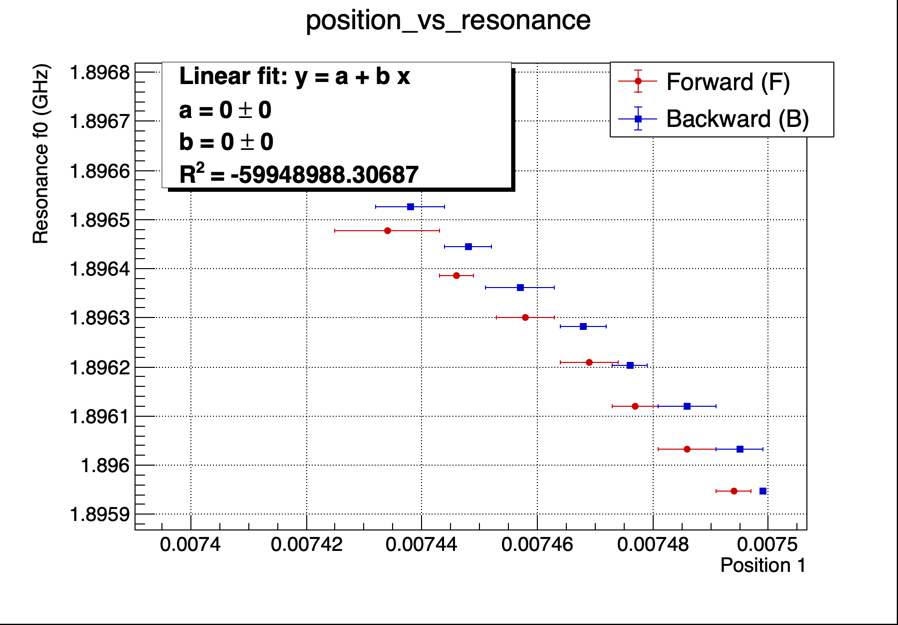
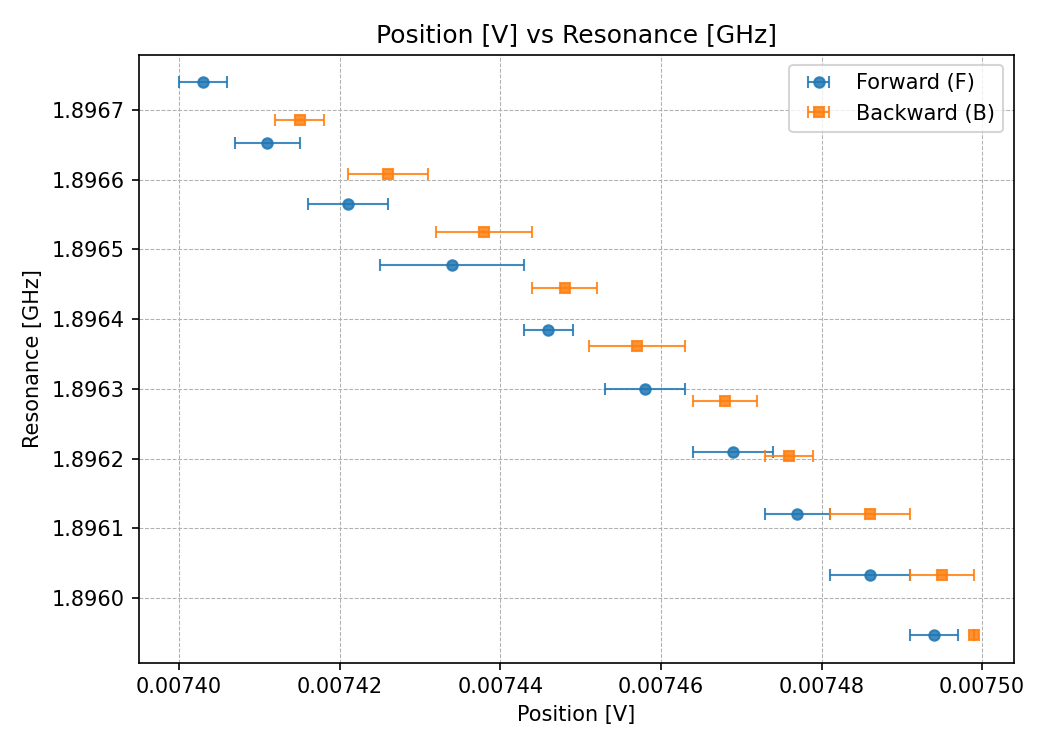
refactor: add error bars and forward/backward separation to comparison plots

diff --git a/linux_vna/plot_comparisons.py b/linux_vna/plot_comparisons.py
@@ -1,24 +1,16 @@
 #!/usr/bin/env python3
-"""Plot comparisons of rows in Run4.txt.
-
-This script reads the Run4.txt CSV file located at
-`data/20260722/Run4.txt` and creates three scatter plots comparing:
-1. Step_Count vs Position
-2. Step_Count vs Resonance_f0_GHz
-3. Position vs Resonance_f0_GHz
-
-Each plot shows Position (x‑axis) vs Resonance_f0_GHz (y‑axis) for the two rows.
-The figures are saved as PNG files in the `figures/` directory.
-"""
+"""Plot Run#.txt data with Forward/Backward separation and error bars."""
 
 import csv
 import os
 import sys
-import matplotlib.pyplot as plt
 
-# Paths
+import matplotlib.pyplot as plt
+import numpy as np
+
+
 BASE_DIR = os.path.abspath(os.path.dirname(__file__))
-# 引数があればそのファイル、なければデフォルトのRun4.txt
+
 if len(sys.argv) > 1:
     DATA_PATH = os.path.abspath(sys.argv[1])
 else:
@@ -27,84 +19,139 @@ else:
 FIG_DIR = os.path.join(BASE_DIR, "figures")
 os.makedirs(FIG_DIR, exist_ok=True)
 
-# Load data
-rows = []
-with open(DATA_PATH, newline="", encoding="utf-8") as f:
-    # '#' で始まるコメント行をスキップしてDictReaderに渡す
-    lines = [line for line in f if not line.strip().startswith("#")]
-    reader = csv.DictReader(lines)
-    for r in reader:
-        # Step_Count
-        step_count = int(r["Step_Count"])
-        # Sstep (新形式にあれば取得、なければ 1)
-        sstep = int(r["Sstep"]) if "Sstep" in r and r["Sstep"] else 1
-        total_steps = step_count * sstep
 
-        # Position (新形式: Position1_Mean、旧形式: Position)
-        if "Position1_Mean" in r:
-            pos = float(r["Position1_Mean"])
-            pos_err = float(r["Position1_Err"]) if "Position1_Err" in r else 0.0
-        elif "Position" in r:
-            pos = float(r["Position"])
-            pos_err = 0.0
-        else:
-            pos = 0.0
-            pos_err = 0.0
+def load_rows(path):
+    rows = []
 
-        # Resonance_f0_GHz
-        f0 = float(r["Resonance_f0_GHz"])
+    with open(path, newline="", encoding="utf-8-sig") as file:
+        lines = [line for line in file if line.strip() and not line.lstrip().startswith("#")]
+        reader = csv.DictReader(lines)
 
-        # Direction (F: Forward, B: Backward, 旧形式なら "F")
-        direction = r.get("Direction", "F").strip()
+        required = {"Step_Count", "Resonance_f0_GHz"}
+        missing = required - set(reader.fieldnames or [])
+        if missing:
+            raise RuntimeError(f"Missing columns: {', '.join(sorted(missing))}")
 
-        rows.append({
-            "Step_Count": step_count,
-            "Sstep": sstep,
-            "Total_Steps": total_steps,
-            "Position": pos,
-            "Position_Err": pos_err,
-            "Resonance_f0_GHz": f0,
-            "Direction": direction,
-        })
+        for row in reader:
+            step_count = int(row["Step_Count"])
+            sstep = float(row["Sstep"]) if row.get("Sstep") else 1.0
 
-if len(rows) == 0:
-    raise RuntimeError(f"{DATA_PATH} contains no data.")
+            if row.get("Position1_Mean"):
+                position = float(row["Position1_Mean"])
+                position_error = float(row.get("Position1_Err") or 0.0)
+            elif row.get("Position"):
+                position = float(row["Position"])
+                position_error = 0.0
+            else:
+                raise RuntimeError("Position1_Mean or Position column is missing")
 
-has_direction = any(r["Direction"] in ("F", "B") for r in rows) and len(set(r["Direction"] for r in rows)) > 1
+            rows.append(
+                {
+                    "Step_Count": step_count,
+                    "Sstep": sstep,
+                    "Total_Steps": step_count * sstep,
+                    "Position": position,
+                    "Position_Err": position_error,
+                    "Resonance_f0_GHz": float(row["Resonance_f0_GHz"]),
+                    "Direction": (row.get("Direction") or "F").strip().upper(),
+                }
+            )
 
-def plot_columns(x_key, y_key, label_x, label_y, filename):
-    plt.figure(figsize=(7, 5))
+    if not rows:
+        raise RuntimeError(f"{path} contains no data.")
+    return rows
+
+
+rows = load_rows(DATA_PATH)
+has_direction = {row["Direction"] for row in rows} >= {"F", "B"}
+
+
+def plot_columns(x_key, y_key, label_x, label_y, filename,
+                 x_error_key=None, y_error_key=None):
+    fig, ax = plt.subplots(figsize=(7, 5))
+
+    groups = [("F", "tab:blue", "o", "Forward (F)"),
+              ("B", "tab:orange", "s", "Backward (B)")]
+
     if has_direction:
-        f_rows = [r for r in rows if r["Direction"] == "F"]
-        b_rows = [r for r in rows if r["Direction"] == "B"]
-        if f_rows:
-            plt.scatter([r[x_key] for r in f_rows], [r[y_key] for r in f_rows], color="tab:blue", label="Forward (F)", alpha=0.8)
-        if b_rows:
-            plt.scatter([r[x_key] for r in b_rows], [r[y_key] for r in b_rows], color="tab:orange", marker="s", label="Backward (B)", alpha=0.8)
-        plt.legend()
+        plot_groups = groups
     else:
-        x = [row[x_key] for row in rows]
-        y = [row[y_key] for row in rows]
-        plt.scatter(x, y, color="tab:blue", alpha=0.8)
+        plot_groups = [(None, "tab:blue", "o", "Data")]
 
-    plt.title(f"{label_x} vs {label_y}")
-    plt.xlabel(label_x)
-    plt.ylabel(label_y)
-    plt.grid(True, which="both", ls="--", lw=0.5)
-    plt.tight_layout()
+    for direction, color, marker, label in plot_groups:
+        selected = (
+            [row for row in rows if row["Direction"] == direction]
+            if direction is not None else rows
+        )
+        if not selected:
+            continue
+
+        x = np.asarray([row[x_key] for row in selected], dtype=float)
+        y = np.asarray([row[y_key] for row in selected], dtype=float)
+
+        xerr = None
+        yerr = None
+        if x_error_key is not None:
+            xerr = np.asarray([row[x_error_key] for row in selected], dtype=float)
+        if y_error_key is not None:
+            yerr = np.asarray([row[y_error_key] for row in selected], dtype=float)
+
+        ax.errorbar(
+            x,
+            y,
+            xerr=xerr,
+            yerr=yerr,
+            fmt=marker,
+            color=color,
+            ecolor=color,
+            elinewidth=1,
+            capsize=3,
+            markersize=5,
+            alpha=0.85,
+            label=label,
+        )
+
+    ax.set_title(f"{label_x} vs {label_y}")
+    ax.set_xlabel(label_x)
+    ax.set_ylabel(label_y)
+    ax.grid(True, which="both", linestyle="--", linewidth=0.5)
+    ax.legend()
+    fig.tight_layout()
+
     save_path = os.path.join(FIG_DIR, filename)
-    plt.savefig(save_path)
-    plt.show()
+    fig.savefig(save_path, dpi=150)
+    return fig
 
-# Define column pairs to plot (Step Count横軸はsstepを掛けたTotal_Steps)
-column_pairs = [
-    ("Total_Steps", "Position", "Total Steps (Step_Count * sstep)", "Position (V or m)", "stepcount_vs_position.png"),
-    ("Total_Steps", "Resonance_f0_GHz", "Total Steps (Step_Count * sstep)", "Resonance (GHz)", "stepcount_vs_resonance.png"),
-    ("Position", "Resonance_f0_GHz", "Position (V or m)", "Resonance (GHz)", "position_vs_resonance.png"),
-]
 
-for x_key, y_key, label_x, label_y, fname in column_pairs:
-    plot_columns(x_key, y_key, label_x, label_y, fname)
+# Position1_Err をY方向のエラーとして表示
+plot_columns(
+    "Total_Steps",
+    "Position",
+    "Total Steps [Step Number]",
+    "Position [V]",
+    "stepcount_vs_position.png",
+    y_error_key="Position_Err",
+)
 
-print("Column comparison plots saved in", FIG_DIR)
+# 共振周波数のエラー列がないため、エラーバーなし
+plot_columns(
+    "Total_Steps",
+    "Resonance_f0_GHz",
+    "Total Steps [Step Number]",
+    "Resonance [GHz]",
+    "stepcount_vs_resonance.png",
+)
 
+# Position1_Err をX方向のエラーとして表示
+plot_columns(
+    "Position",
+    "Resonance_f0_GHz",
+    "Position [V]",
+    "Resonance [GHz]",
+    "position_vs_resonance.png",
+    x_error_key="Position_Err",
+)
+
+print(f"Column comparison plots saved in {FIG_DIR}")
+print("Close the plot windows to finish.")
+plt.show()
